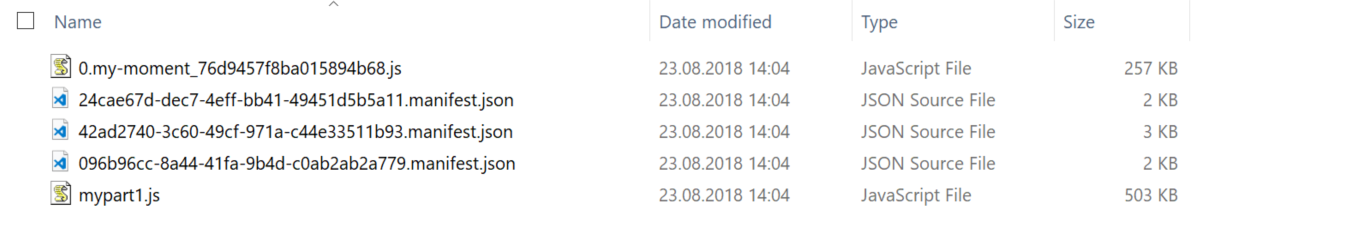
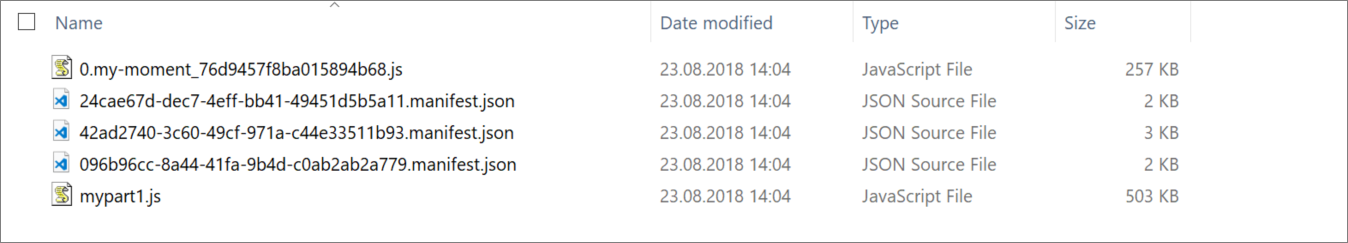
Refreshed "Guidance /  SharePoint Framework guidance on dynamic loading of packages"
- fixed grammar / spelling issues
- added 1px gray border to all images with white/black backgrounds
  - required by MSDocs so it's clear to the reader, regardless of the theme they have selected for MSDocs (light/dark), where images start/stop
- cleaned up markdown issues
  - bullet usage
  - code listings
  - correct usage of italic, bold, & inline code formats
- improved Acrolinx score

diff --git a/docs/spfx/dynamic-loading.md b/docs/spfx/dynamic-loading.md
@@ -1,147 +1,148 @@
 ---
 title: SharePoint Framework guidance on dynamic loading of packages
 description: Techniques to optimize the run-time size and execution speed of your SharePoint Framework component.
-ms.date: 08/27/2018
+ms.date: 07/01/2020
 ms.prod: sharepoint
 localization_priority: Priority
 ---
 
 # Dynamic loading of packages in SharePoint Framework
 
-When building SharePoint Framework components it is common to reference third party libraries such as [Office UI Fabric React](https://www.npmjs.com/package/office-ui-fabric-react) for layout controls or [moment](https://www.npmjs.com/package/moment) for time handling. Each of these libraries will add to the byte size of the bundled JavaScript file for the component. As an example, moment adds ~250KB, a considerable amount.
+When building SharePoint Framework components, it's common to reference third-party libraries such as [Office UI Fabric React](https://www.npmjs.com/package/office-ui-fabric-react) for user interface controls or [Moment.js](https://momentjs.com/) for time handling. Each of these libraries will add size of the bundled JavaScript file for the component. As an example, Moment.js adds ~250 KB to the resulting bundle!
 
 > [!NOTE]
-> A _bundle_ is one or more JavaScript fragments and style sheets, put into the same `.js` file. When you package an SPFx solution, all your code is usually bundled into one `.js` file. Splitting a bundle, is the operation of generating multiple `.js` files instead of one, so that they can be loaded individually.*
+> A JavaScript *bundle* is a JavaScript file that combines one or more JavaScript files or style sheets. When you package an SPFx solution, by default all your code, and the libraries you import into your project, are bundled into one **\*.js** file. Splitting up a bundle is the operation of generating multiple **\*.js** files instead of one, so that they can be loaded individually.
 
-Depending on the component, these third party libraries may or may not be used in all parts of the components lifecycle. Maybe they are only used in edit mode or in the property pane, or maybe they are needed once a user clicks a link or button in the component.
+Depending on the component, these third-party libraries may or may not be used in all parts of the components lifecycle. Maybe they're only used in edit mode or in the property pane, or maybe they're needed once a user clicks a link or button in the component.
 
-If the SPFx component is more like a single page application (SPA), optimizing the size might not be important, but if it's a web part added to a page or even used multiple times on a page, like a search web part, then reducing the amount of script loaded and the amount of script being executed on a page matters for load time of the page. Especially for mobile devices.
+If the SPFx component is more like a single page application (SPA), optimizing the size might not be important, but if it's a web part added to a page or even used multiple times on a page, like a search web part, then reducing the amount of script loaded and the amount of script being executed on a page matters for load time of the page. This can have a significant impact on mobile experiences.
 
-To improve on the speed a SPFx component takes to load on a page it is possible to take advantage of splitting the bundle into multiple JavaScript parts, and dynamically load these individually bundled packages as needed.
+To improve on the speed a SPFx component takes to load on a page it's possible to take advantage of splitting the bundle into multiple JavaScript parts, and dynamically load these individually bundled packages as needed.
 
-## Splitting up multiple web parts to be loaded individually
+## Split up multiple web parts to be loaded individually
 
-In an SPFx project with multiple web parts or extensions a typical structure in the `config/config.json` file might look like this.
-
-```json
-{
-    "$schema": "https://developer.microsoft.com/json-schemas/spfx-build/config.2.0.schema.json",
-    "version": "2.0",
-    "bundles": {
-        "my-spfx": {
-            "components": [
-                {
-                    "entrypoint": "./lib/webparts/part1/part1.js",
-                    "manifest": "./src/webparts/part1/part1.manifest.json"
-                },
-                {
-                    "entrypoint": "./lib/webparts/part2/part2.js",
-                    "manifest": "./src/webparts/part2/part2.manifest.json"
-                }
-            ]
-        }
-    },
-    "externals": {},
-    "localizedResources": {}
-}
-```
-
-In the above configuration both web parts are included in the same JavaScript file or bundle. This means that if a user adds one of the web parts to a page, both are actually loaded. For scenarios where the web parts almost always coincide on the same page, this is fine, as it reduced load time. If however the web parts are used separately, then it is better to have them split into two files to reduce what is loaded on the page.
-
-This can be achieved by changing `config/config.json` so that each web part is bundled as a separate JavaScript file. 
+An SPFx project with multiple web parts or extensions contains the file **./config/config.json** similar to the following:
 
 ```json
 {
-    "$schema": "https://developer.microsoft.com/json-schemas/spfx-build/config.2.0.schema.json",
-    "version": "2.0",
-    "bundles": {
-        "my-spfx-1": {
-            "components": [
-                {
-                    "entrypoint": "./lib/webparts/part1/part1.js",
-                    "manifest": "./src/webparts/part1/part1.manifest.json"
-                }
-            ]
+  "$schema": "https://developer.microsoft.com/json-schemas/spfx-build/config.2.0.schema.json",
+  "version": "2.0",
+  "bundles": {
+    "my-spfx": {
+      "components": [
+        {
+          "entrypoint": "./lib/webparts/part1/part1.js",
+          "manifest": "./src/webparts/part1/part1.manifest.json"
         },
-        "my-spfx-2": {
-            "components": [
-                {
-                    "entrypoint": "./lib/webparts/part2/part2.js",
-                    "manifest": "./src/webparts/part2/part2.manifest.json"
-                }
-            ]
+        {
+          "entrypoint": "./lib/webparts/part2/part2.js",
+          "manifest": "./src/webparts/part2/part2.manifest.json"
         }
+      ]
+    }
+  },
+  "externals": {},
+  "localizedResources": {}
+}
+```
+
+In the above configuration, both web parts are included in the same JavaScript bundle. This means when a user adds one of the web parts to a page, both are loaded. For scenarios where both web parts are on the same page at the same time, this is fine as it reduced load time downloading one file instead of two.
+
+If however the web parts are used separately, then it's better to have them split into two files to reduce what the page needs to download to run just one of them.
+
+This can be achieved by modifying **config/config.json** so that each web part is bundled as a separate JavaScript file:
+
+```json
+{
+  "$schema": "https://developer.microsoft.com/json-schemas/spfx-build/config.2.0.schema.json",
+  "version": "2.0",
+  "bundles": {
+    "my-spfx-1": {
+      "components": [
+        {
+          "entrypoint": "./lib/webparts/part1/part1.js",
+          "manifest": "./src/webparts/part1/part1.manifest.json"
+        }
+      ]
     },
-    "externals": {},
-    "localizedResources": {}
+    "my-spfx-2": {
+      "components": [
+        {
+          "entrypoint": "./lib/webparts/part2/part2.js",
+          "manifest": "./src/webparts/part2/part2.manifest.json"
+        }
+      ]
+    }
+  },
+  "externals": {},
+  "localizedResources": {}
 }
 ```
 
-## Analyzing your bundle
+## Analyze your bundle
 
-In order to get an overview of where to start optimize, see the article [Optimize SharePoint Framework builds for production](https://docs.microsoft.com/sharepoint/dev/spfx/toolchain/optimize-builds-for-production) which illustrates how you can get a visual map of which part of your code or third party library takes up space in your bundle.
+In order to get an overview of where to start,  optimize, see the article [Optimize SharePoint Framework builds for production, which illustrates how you can get a visual map of which part of your code or third-party library takes up space in your bundle.
 
-## Loading third party components dynamically
+## Load third-party components dynamically
 
-When a SharePoint Framework project is packaged up, it is using webpack behind the scenes to create the bundle(s). One of the features of webpack is the ability to dynamically import parts of an application. Taking advantage of this in SharePoint Framework requires only a small refactoring.
+When a SharePoint Framework solution is packaged, the build toolchain uses [webpack](https://webpack.js.org/) to generate the bundle(s). One of webpack's features is the ability to dynamically import parts of an application. You can implement this in SharePoint Framework projects with a minor code refactoring.
 
-**Normal import**
+### Normal import
 
-In the code below the moment library will be included into the packages JavaScript file, always being loaded even though the `GetTime` function is never used.
+In the following code, the Moment.js library will be included solution's JavaScript bundle. This code will always be loaded on the page even if the method `GetTime()` is never called.
 
 ```typescript
-// Import moment as a dependency
 import * as moment from moment
-.
-.
+
 export default class MyClass {
-    public GetTime(dateString:string){
-		return moment(dateString).format("LL");
-    }
+  public GetTime(dateString:string){
+    return moment(dateString).format("LL");
+  }
 }
 ```
 
-**Dynamic import**
+### Dynamic import
 
-However, in the code below the moment library is loaded asynchronous when the `GetTime` function is called, thus reducing the initial load and execution time.
+However, in the following code, the Moment.js library is asynchronously loaded when the `GetTime()` method is called, which will reduce the initial load and execution time. Notice the additional `webpackChuckName` code comment
 
 ```typescript
 export default class MyClass {
-    public async GetTime(dateString:string){
-         const moment = await import(
-                /* webpackChunkName: 'my-moment' */
-                'moment'
-            );
-		return moment(dateString).format("LL");
-    }
+  public async GetTime(dateString:string) {
+    const moment = await import(
+      /* webpackChunkName: 'my-moment' */
+      'moment'
+    );
+    return moment(dateString).format("LL");
+  }
 }
 ```
 
-*Note: If your `config/tsconfig.json` file has `"module": "commonjs"` and not `"module": "esnext"` you need the following work-around in order for the dynamic library to be split out of the bundle.*
+> [!NOTE]
+> If your **config/tsconfig.json** file has `"module": "commonjs"` and not `"module": "esnext"`, you'll need the following work-around in order for the dynamic library to be split out of the bundle.
 
 ```typescript
 declare var System: any;
 
 export default class MyClass {
-    public async GetTime(dateString:string){
-         const moment = await System.import(
-                /* webpackChunkName: 'my-moment' */
-                'moment'
-            );
-		return moment(dateString).format("LL");
-    }
+  public async GetTime(dateString:string){
+    const moment = await System.import(
+      /* webpackChunkName: 'my-moment' */
+      'moment'
+    );
+    return moment(dateString).format("LL");
+  }
 }
 ```
 
 ### Verify code splitting and dynamic import
 
-To verify that dynamic import is happening, open up the `dist` folder after a build and look for the dynamically loaded part as a separate JavaScript file. In the below image the moment library is split out. Also look at the webpack analyzer output referenced above, which will show that your code is split into multiple bundles/chunks.
+To verify that dynamic import is happening, open the **./dist** folder after executing the **gulp bundle** task and look for the dynamically loaded library as a separate JavaScript file. In the following image, the Moment.js library is split into its own file.
 
 ![Multiple bundles](../images/dynamic-bundling.png)
 
-Not every single file or library has to be dynamically imported. Instead choose an abstraction where everything needed for a certain scenario or capability is bundled together.
+Not every file or library should be dynamically imported. Instead, consider grouping like code blocks together for certain scenarios or capabilities into a single bundle.
 
-For example create a file `MyStuff.ts` which references a number of libraries, and then dynamically load `MyStuff`. In this case, `third-party` and `left-party` will be bundled into `my-stuff.js`.
+For example, create a file **MyStuff.ts, which references a number of libraries, and then dynamically load **MyStuff**. In this case, the libraries **third-party** and **left-party** will be bundled into **my-stuff.js**.
 
 ```typescript
 // MyStuff.ts
@@ -151,32 +152,32 @@ import * as Foo from 'left-party';
 
 // Other file
 await import(
-    /* webpackChunkName: 'my-stuff' */
-    './MyStuff'
+  /* webpackChunkName: 'my-stuff' */
+  './MyStuff'
 );
 ```
 
 ## Special property pane dynamic loading
 
-In your main web part file create a function named `loadPropertyPaneResources.` This function will execute before the property pane of a web part is shown. This allows dynamic loading of resources needed for the property pane only.
+Another use case for this capability is to dynamically import code that is only used in the property pane. In this case, you should only download this code into the browser when the web part's property pane is active.
 
-* Create a  new file (for example, HelloWorldWebPartPropertyPaneStuff.ts)
-* Move all property pane related code to that file
-* Create the following method in the main web part class
+In your main web part file, create a method named `loadPropertyPaneResources()`. This method will execute before the property pane of a web part is shown. This allows dynamic loading of resources needed for the property pane only.
+
+1. Create a new file **HelloWorldWebPartPropertyPaneStuff.ts**
+1. Move all property pane-related code to that file
+1. Create the following method in the main web part class
 
 ```typescript
-  protected loadPropertyPaneResources(): Promise<void> {
-    return import(
-      /* webpackChunkName: 'HelloWorldWebPartPropertyPaneStuff' */
-      './HelloWorldWebPartPropertyPaneStuff'
-    ).then(component => {
-      this._propertyPaneHelper = new component.HelloWorldWebPartPropertyPaneStuff(this);
-    });
-  }
+protected loadPropertyPaneResources(): Promise<void> {
+  return import(
+    /* webpackChunkName: 'HelloWorldWebPartPropertyPaneStuff' */
+    './HelloWorldWebPartPropertyPaneStuff'
+  ).then(component => {
+    this._propertyPaneHelper = new component.HelloWorldWebPartPropertyPaneStuff(this);
+  });
+}
 ```
-
-- Rebuild
 
 ## Summary
 
-When building SPFx solutions consisting of several web parts or extensions, or if building  an SPFx web part with a lot of code and which uses third party libraries, consider analyzing the resulting bundle size, and use the strategies defined above to split the code into multiple smaller bundles, where each one is loaded only when needed - thus reducing the time it takes for an end-user to load and execute a modern page.
+When building SPFx solutions consisting of several components or if you're using third-party libraries, consider dynamic imports. First analyze the resulting bundle size, and use the strategies outlined in this page to split the code into multiple bundles where each one is loaded only when needed. This will reduce the time it takes for an end user to load and execute the page.
